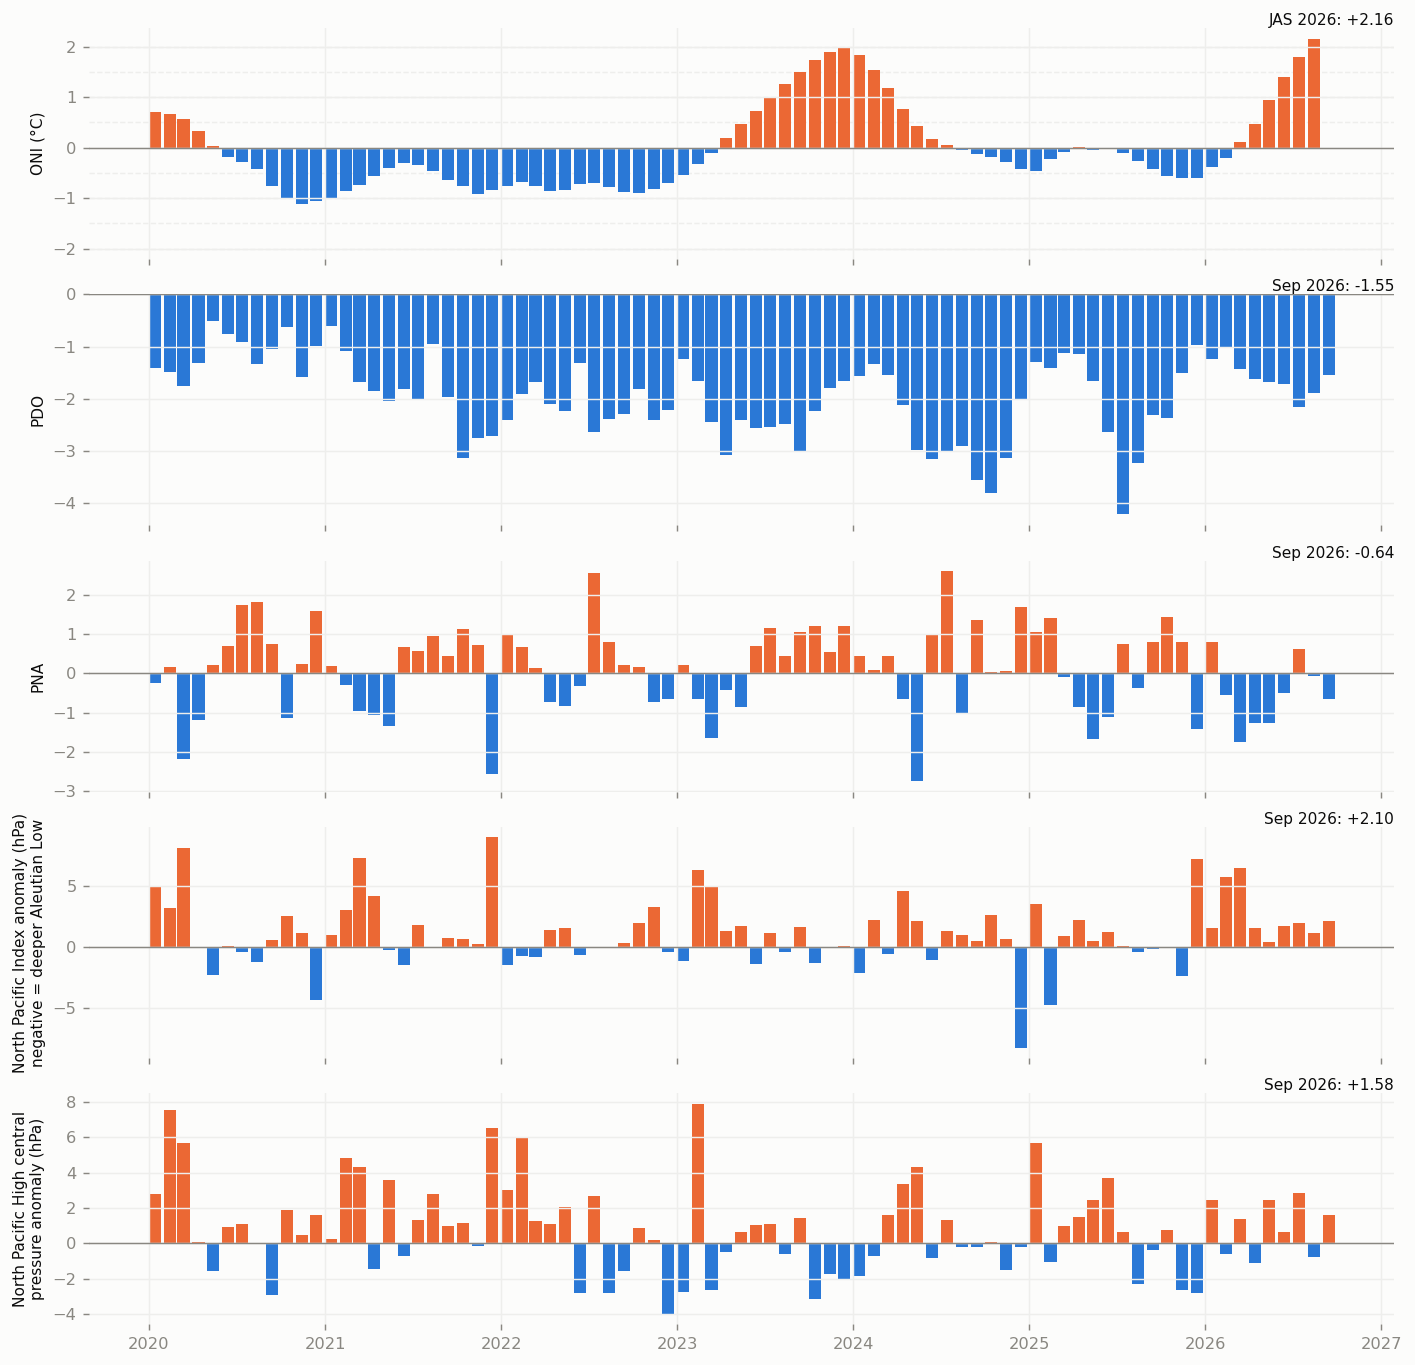
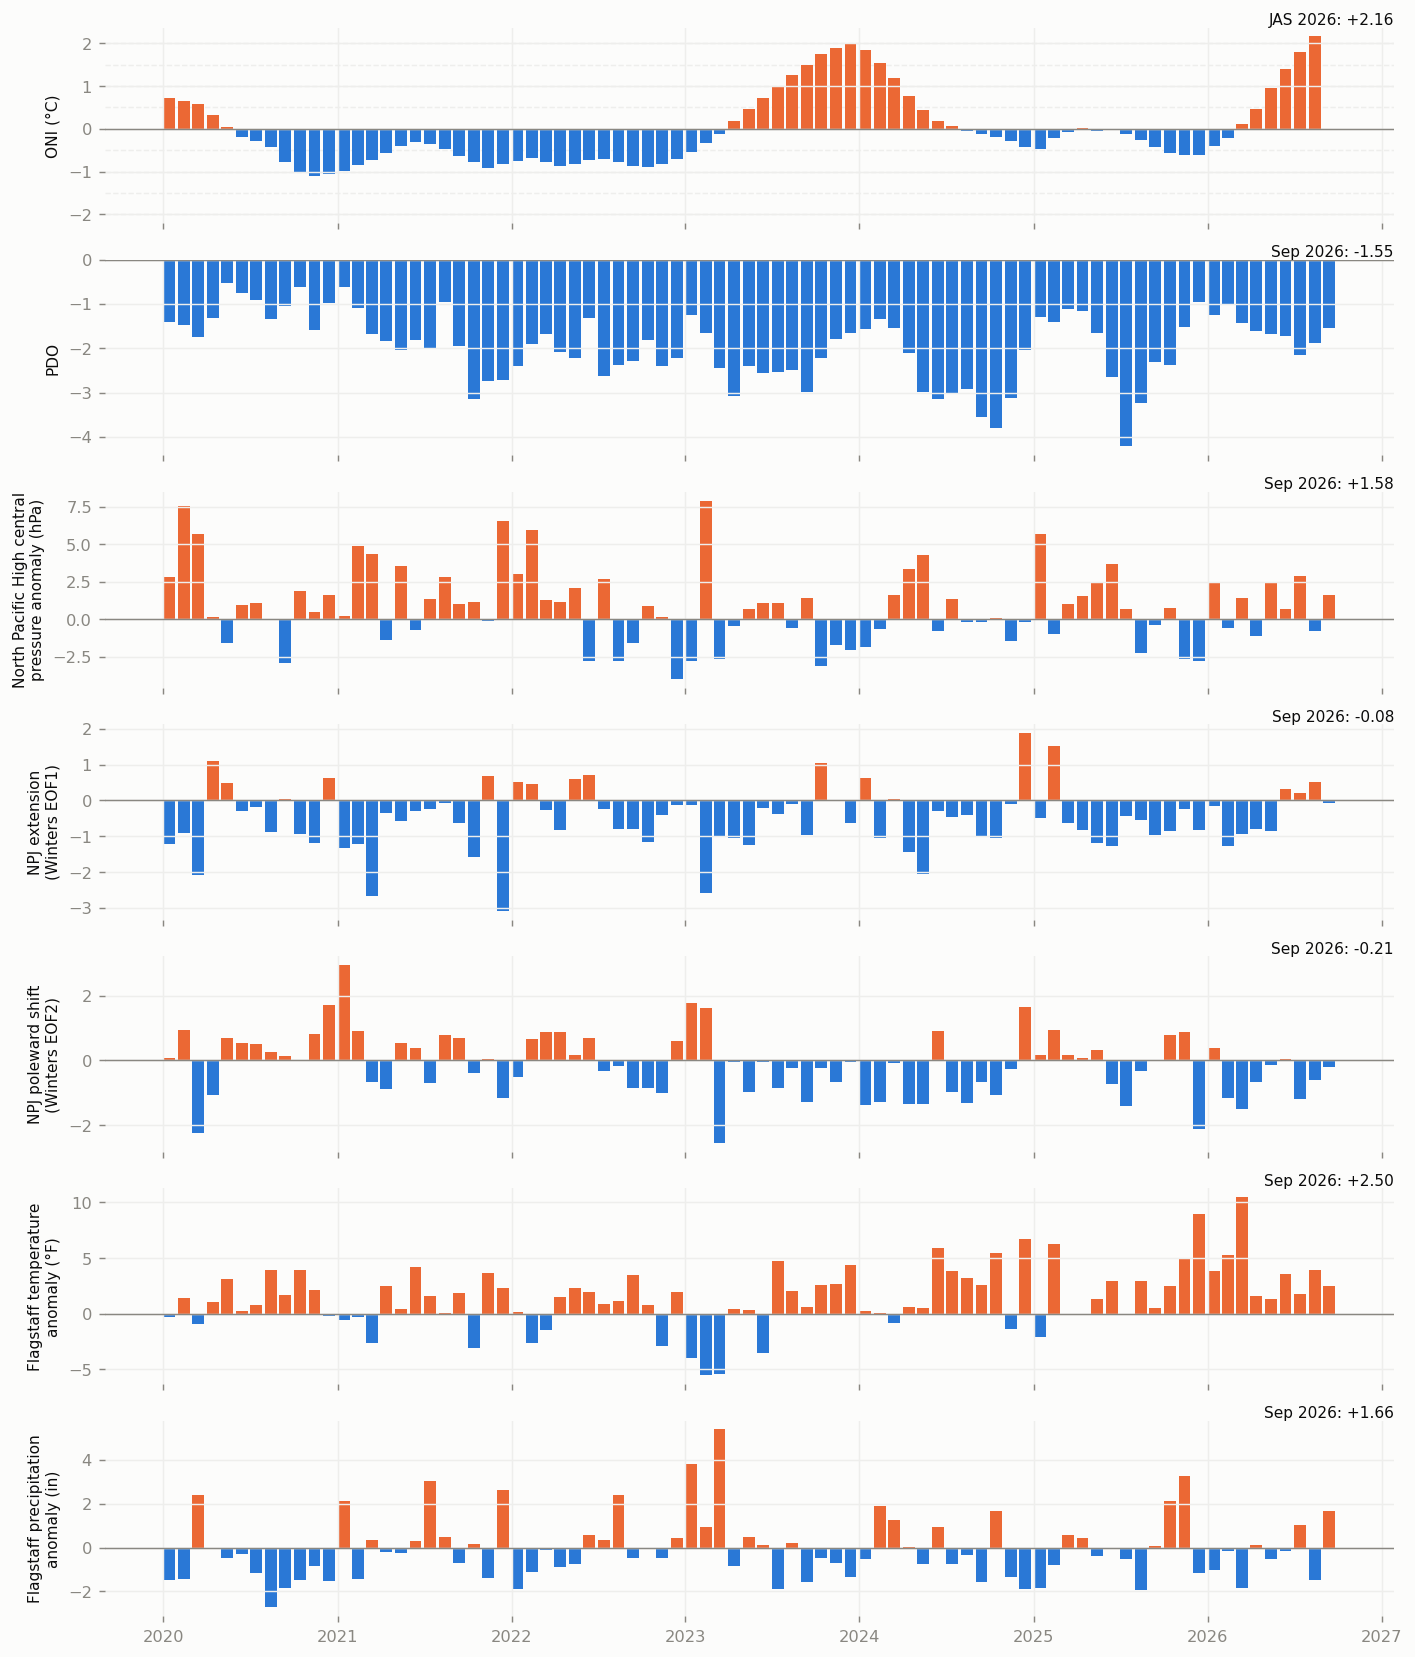
Reorganise the Pacific page with a contents list
- Contents at the top (Quarto body TOC): Current state (indices, anomaly
  maps), ENSO, Teleconnections with winter precipitation
- Current state adds the North Pacific jet (indices and phase diagram) and
  Flagstaff airport monthly temperature and precipitation vs 1991-2020 normals
- Remove the PNA and Aleutian Low (summary, indices, maps, tables)
- Trim the jet discussion to the two shift patterns and move it under
  Teleconnections; drop the PNA-related P1 panel and columns

diff --git a/flagweather/figures/pacific.py b/flagweather/figures/pacific.py
@@ -61,8 +61,8 @@ def _colorbar(fig, pc, axes, kind):
 
 
 def _centres(p, months):
-    al, nph = p.al.loc[months].mean(), p.nph.loc[months].mean()
-    return {'L': (al.lat, al.lon), 'H': (nph.lat, nph.lon)}
+    nph = p.nph.loc[months].mean()
+    return {'H': (nph.lat, nph.lon)}
 
 
 def anomaly_maps(p, periods):
@@ -106,16 +106,19 @@ def correlation_maps(p, maps, n, sig):
 
 
 def index_timeseries(p, start):
+    f = p.flg_monthly
     series = [
         ('ONI (°C)', p.oni, [0.5, 1.0, 1.5, 2.0]),
         ('PDO', p.pdo, []),
-        ('PNA', p.pna, []),
-        ('North Pacific Index anomaly (hPa)\nnegative = deeper Aleutian Low', p.npi_a, []),
         ('North Pacific High central\npressure anomaly (hPa)', p.nph.p_anom, []),
+        ('NPJ extension\n(Winters EOF1)', p.jet['W19'].pcs.PC1, []),
+        ('NPJ poleward shift\n(Winters EOF2)', p.jet['W19'].pcs.PC2, []),
+        ('Flagstaff temperature\nanomaly (°F)', (f.tavg - f.tavg_n), []),
+        ('Flagstaff precipitation\nanomaly (in)', (f.pcpn - f.pcpn_n), []),
     ]
-    fig, axes = plt.subplots(len(series), 1, figsize=(11, 2.0 * len(series) + 0.6), sharex=True, facecolor=SURF)
+    fig, axes = plt.subplots(len(series), 1, figsize=(11, 1.75 * len(series) + 0.6), sharex=True, facecolor=SURF)
     for ax, (lab, s, refs) in zip(axes, series):
-        s = s.loc[start:]
+        s = s.loc[start:].dropna()
         ax.bar(s.index, s.values, width=25, color=[WARM if v >= 0 else COOL for v in s.values], align='edge')
         ax.axhline(0, color=MUTED, lw=0.8)
         for r in refs:
@@ -123,7 +126,7 @@ def index_timeseries(p, start):
                 ax.axhline(sign * r, color=GRID, lw=0.8, ls='--', zorder=0)
         ax.set_ylabel(lab, fontsize=8.5)
         clean(ax)
-        t, last = s.dropna().index[-1], s.dropna().iloc[-1]
+        t, last = s.index[-1], s.iloc[-1]
         when = (f'{SEASONS[t.month]} {t.year}' if lab.startswith('ONI') else f'{t:%b %Y}')
         ax.annotate(f'{when}: {last:+.2f}', xy=(1, 1), xycoords='axes fraction', ha='right',
                     va='bottom', fontsize=8.5, color=INK)
@@ -138,12 +141,12 @@ def index_timeseries(p, start):
 def jet_eof_maps(p):
     """Regression of 250-hPa zonal wind on each standardized PC, over the climatological jet of its season."""
     from ..jet import DEFS
-    panels = [('A10', 1, 'Athanasiadis P1 (≈ PNA)'), ('A10', 2, 'Athanasiadis P2 (+: southward-displaced subtropical jet)'),
-              ('W19', 1, 'NPJ EOF1 (+: jet extension)'), ('W19', 2, 'NPJ EOF2 (+: poleward shift)')]
-    fig, axes = plt.subplots(2, 2, figsize=(16, 9), facecolor=SURF, layout='constrained')
+    panels = [('A10', 2, 'Athanasiadis P2 (+: southward-displaced subtropical jet)'),
+              ('W19', 2, 'NPJ EOF2 (+: poleward shift)')]
+    fig, axes = plt.subplots(1, 2, figsize=(16, 4.8), facecolor=SURF, layout='constrained')
     levels = np.arange(-10, 10.1, 2)
     norm = BoundaryNorm(levels, DIV.N, extend='both')
-    for ax, (k, mode, title) in zip(axes.flat, panels):
+    for ax, (k, mode, title) in zip(np.atleast_1d(axes).flat, panels):
         d, e = DEFS[k], p.jet[k]
         pat = e.patterns.sel(mode=mode)
         pc = ax.pcolormesh(pat.longitude, pat.latitude, pat, cmap=DIV, norm=norm, shading='auto')

diff --git a/flagweather/pacific_page.py b/flagweather/pacific_page.py
@@ -42,17 +42,22 @@ def summary(p, months3):
     pdo = p.pdo.dropna()
     lines.append(f'- **PDO:** {pdo.iloc[-1]:+.2f} in {pdo.index[-1]:%B %Y}, the '
                  f'{_ranktxt(pdo, pdo.index[-1], pdo.index[-1].strftime("%B") + " value")}.')
-    pna = p.pna.dropna()
-    lines.append(f'- **PNA:** {pna.iloc[-1]:+.2f} in {pna.index[-1]:%B %Y}; '
-                 f'{months3[0]:%b}–{months3[-1]:%b} mean {pna.reindex(months3).mean():+.2f}.')
-    al = p.al.loc[t]
-    lines.append(f'- **Aleutian Low ({mon}):** lowest sea-level pressure in the North Pacific box was {al.p:.0f} hPa at '
-                 f'{al.lat:.0f}°N {_lon(al.lon)} ({al.p_anom:+.1f} hPa relative to the {t:%B} mean for that box). '
-                 f'North Pacific Index anomaly {p.npi_a[t]:+.1f} hPa, the {_ranktxt(p.npi_a, t, t.strftime("%B") + " value")} '
-                 f'(negative means a deeper Aleutian Low).')
     h = p.nph.loc[t]
     lines.append(f'- **North Pacific High ({mon}):** highest sea-level pressure in the subtropical box was {h.p:.0f} hPa '
                  f'at {h.lat:.0f}°N {_lon(h.lon)} ({h.p_anom:+.1f} hPa relative to the {t:%B} mean).')
+    w = p.jet['W19'].pcs.dropna()
+    jt = w.index[-1]
+    lines.append(f'- **North Pacific jet ({jt:%B %Y}):** extension index {w.PC1.iloc[-1]:+.2f}, poleward-shift index '
+                 f'{w.PC2.iloc[-1]:+.2f} ({npj_regime(w.PC1.iloc[-1], w.PC2.iloc[-1])}); the last 12 months are in the '
+                 f'phase diagram below.')
+    f = p.flg_monthly.dropna(subset=['tavg', 'pcpn'])
+    ft = f.index[-1]
+    f3 = f.iloc[-3:]
+    lines.append(f'- **Flagstaff airport ({ft:%B %Y}):** mean temperature {f.tavg.iloc[-1]:.1f} °F '
+                 f'({f.tavg.iloc[-1] - f.tavg_n.iloc[-1]:+.1f} °F from the 1991–2020 normal); precipitation '
+                 f'{f.pcpn.iloc[-1]:.2f} in ({100 * f.pcpn.iloc[-1] / f.pcpn_n.iloc[-1]:.0f}% of normal). '
+                 f'{f3.index[0]:%b}–{ft:%b}: {(f3.tavg - f3.tavg_n).mean():+.1f} °F, '
+                 f'{f3.pcpn.sum():.2f} in ({100 * f3.pcpn.sum() / f3.pcpn_n.sum():.0f}% of normal).')
     return '\n'.join(lines)
 
 
@@ -117,15 +122,13 @@ def jet_current(p):
 
 
 def jet_table(skill):
-    names = {'ONI': 'ONI (Nov–Jan)', 'PNA': 'PNA', 'A10 P1': 'Athanasiadis P1 (≈ PNA)',
-             'A10 P2': 'Athanasiadis P2 (+: southward-displaced subtropical jet)',
+    names = {'ONI': 'ONI (Nov–Jan)', 'A10 P2': 'Athanasiadis P2 (+: southward-displaced subtropical jet)',
              'NPJ extension': 'NPJ EOF1 (+: jet extension)', 'NPJ poleward shift': 'NPJ EOF2 (+: poleward shift)',
              'SW trough (cross-validated)': 'Southwest trough (cross-validated)'}
     t = pd.DataFrame({
         'r with Flagstaff precip': skill.r.map('{:+.2f}'.format),
         'p': skill.p.map(lambda v: '< 0.001' if v < 0.001 else f'{v:.3f}'),
         'r with ONI': skill.r_ONI.map('{:+.2f}'.format),
-        'r with PNA': skill.r_PNA.map('{:+.2f}'.format),
         'partial r, ONI removed': skill.partial.map(lambda v: '—' if pd.isna(v) else f'{v:+.2f}'),
     })
     t.index = [names[i] for i in t.index]

diff --git a/flagweather/pacific.py b/flagweather/pacific.py
@@ -117,6 +117,7 @@ class Pacific:
         mon = pr.resample('MS').agg(lambda x: x.sum(min_count=int(len(x) * 0.9)))
         self.flg_winter = self._winter_series(mon).rename('Flagstaff Nov–Mar precip (in)')
         self.jet = jet.standard(self.atm.u250, self.pna) if 'u250' in self.atm else None
+        self.flg_monthly = acis.monthly('2019-01', pd.Timestamp.now().strftime('%Y-%m'))
         self.latest_atm = pd.Timestamp(self.atm.time.values[-1])
         self.latest_sst = pd.Timestamp(self.sst.time.values[-1])
         return self
@@ -204,9 +205,7 @@ class Pacific:
         idx = {
             'ONI (Nov–Jan)': self.oni[self.oni.index.month == 12].set_axis(
                 [t.year for t in self.oni[self.oni.index.month == 12].index]),
-            'PDO': wm(self.pdo), 'PNA': wm(self.pna),
-            'North Pacific Index (Aleutian Low; lower = deeper)': wm(self.npi),
-            'Aleutian Low centre latitude': wm(self.al.lat), 'Aleutian Low centre longitude (°E)': wm(self.al.lon),
+            'PDO': wm(self.pdo),
             'North Pacific High central pressure': wm(self.nph.p),
             'North Pacific High centre latitude': wm(self.nph.lat),
         }
@@ -281,9 +280,9 @@ def jet_skill(d):
 
     def res(v):
         return v - X0 @ np.linalg.lstsq(X0, v, rcond=None)[0]
-    for k in ['ONI', 'PNA', 'A10 P1', 'A10 P2', 'NPJ extension', 'NPJ poleward shift', 'SW trough (cross-validated)']:
+    for k in ['ONI', 'A10 P2', 'NPJ extension', 'NPJ poleward shift', 'SW trough (cross-validated)']:
         r, pv = stats.pearsonr(d[k], d.precip)
-        row = dict(index=k, r=r, p=pv, r_ONI=d[k].corr(d.ONI), r_PNA=d[k].corr(d.PNA))
+        row = dict(index=k, r=r, p=pv, r_ONI=d[k].corr(d.ONI))
         if k != 'ONI':
             row['partial'], row['p_partial'] = stats.pearsonr(res(d[k].values), res(d.precip.values))
         rows.append(row)

diff --git a/flagweather/sources/acis.py b/flagweather/sources/acis.py
@@ -75,3 +75,16 @@ def rank_in_month(total, ndays, month, record):
     roll = record.rolling(ndays, min_periods=ndays).sum()
     annual = roll[roll.index.month == month].groupby(roll[roll.index.month == month].index.year).max().dropna()
     return int((annual > total + 1e-9).sum() + 1), len(annual), int(annual.index.min())
+
+
+def monthly(start, end, sid=ACIS_SID):
+    """Monthly mean temperature (F) and total precipitation (in) with 1991-2020 normals; months with more than
+    3 missing days are NaN."""
+    e = [{'name': 'avgt', 'interval': 'mly', 'duration': 'mly', 'reduce': 'mean', 'maxmissing': 3},
+         {'name': 'avgt', 'interval': 'mly', 'duration': 'mly', 'reduce': 'mean', 'normal': '1'},
+         {'name': 'pcpn', 'interval': 'mly', 'duration': 'mly', 'reduce': 'sum', 'maxmissing': 3},
+         {'name': 'pcpn', 'interval': 'mly', 'duration': 'mly', 'reduce': 'sum', 'normal': '1'}]
+    d = _post('/StnData', {'sid': sid, 'sdate': str(start), 'edate': str(end), 'elems': e})['data']
+    df = pd.DataFrame(d, columns=['month', 'tavg', 'tavg_n', 'pcpn', 'pcpn_n']).set_index('month')
+    df.index = pd.to_datetime(df.index)
+    return df.apply(lambda c: c.map(_num))
